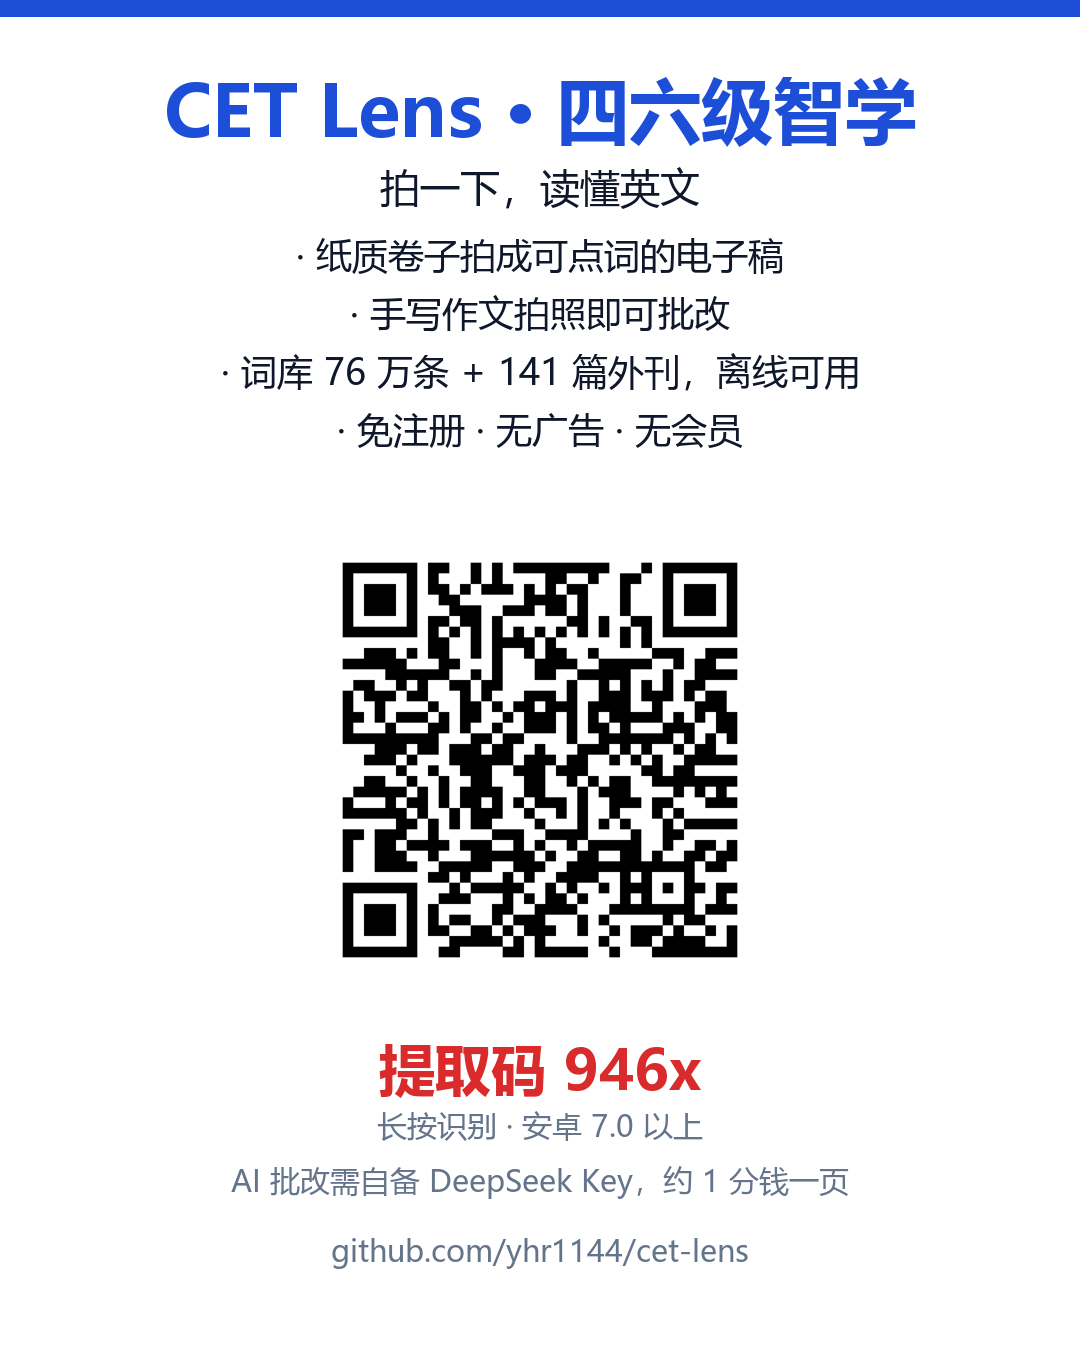
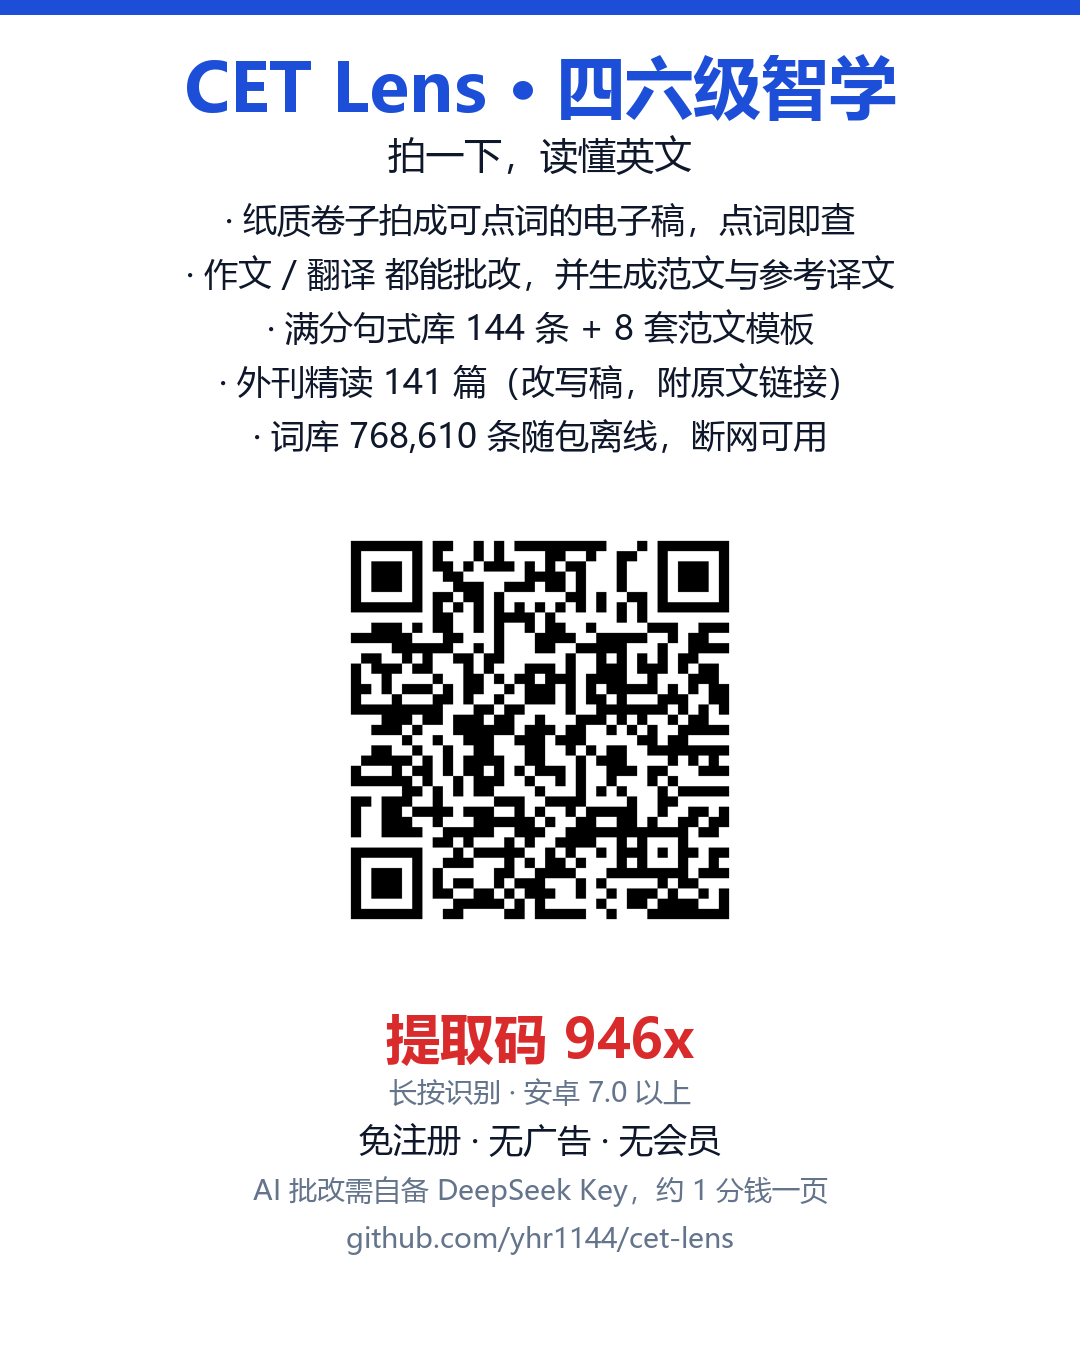
宣传口径修正：外刊标明为改写稿；补充作文/翻译都能批改并给范文、满分句式库

Changed region(s): [[0.1528, 0.0311, 0.8556, 0.3422], [0.3056, 0.3733, 0.7028, 0.7156], [0.2139, 0.7467, 0.7944, 0.9333]]

diff --git a/docs/index.html b/docs/index.html
@@ -108,9 +108,9 @@
   <div class="grid">
     <div class="card"><b>拍照精读</b><p>相机或相册取图，离线 OCR 本机识别，结果里点任意单词就能查词。</p></div>
     <div class="card"><b>手写识别</b><p>切到云端 OCR，手写作文、横线纸比本机识别准得多，一页约 2–3 秒。</p></div>
-    <div class="card"><b>作文批改</b><p>拍题目 + 拍内容，AI 给出档位、分项评分、扣分说明和逐词替换建议。</p></div>
-    <div class="card"><b>范文参考</b><p>批改完可以按题目生成一篇范文，或生成译文参考，可复制可收藏。</p></div>
-    <div class="card"><b>词库与外刊</b><p>768,610 条词条随包离线；141 篇四六级外刊，按主题分类。</p></div>
+    <div class="card"><b>作文与翻译批改</b><p>作文、翻译都能拍，AI 给出档位、分项评分、扣分说明和逐词替换建议，并可按题目生成范文 / 参考译文。</p></div>
+    <div class="card"><b>满分句式库</b><p>144 条四六级高分句式 + 8 套范文模板，支持中英文搜索，可复制收藏。</p></div>
+    <div class="card"><b>词库与外刊</b><p>768,610 条词条随包离线；141 篇外刊<b>改写稿</b>（附原文链接），按主题分类。</p></div>
     <div class="card"><b>收藏背诵</b><p>单词、句子、范文都能收，支持分类筛选和遮挡中文的背诵模式。</p></div>
   </div>
 </section>
